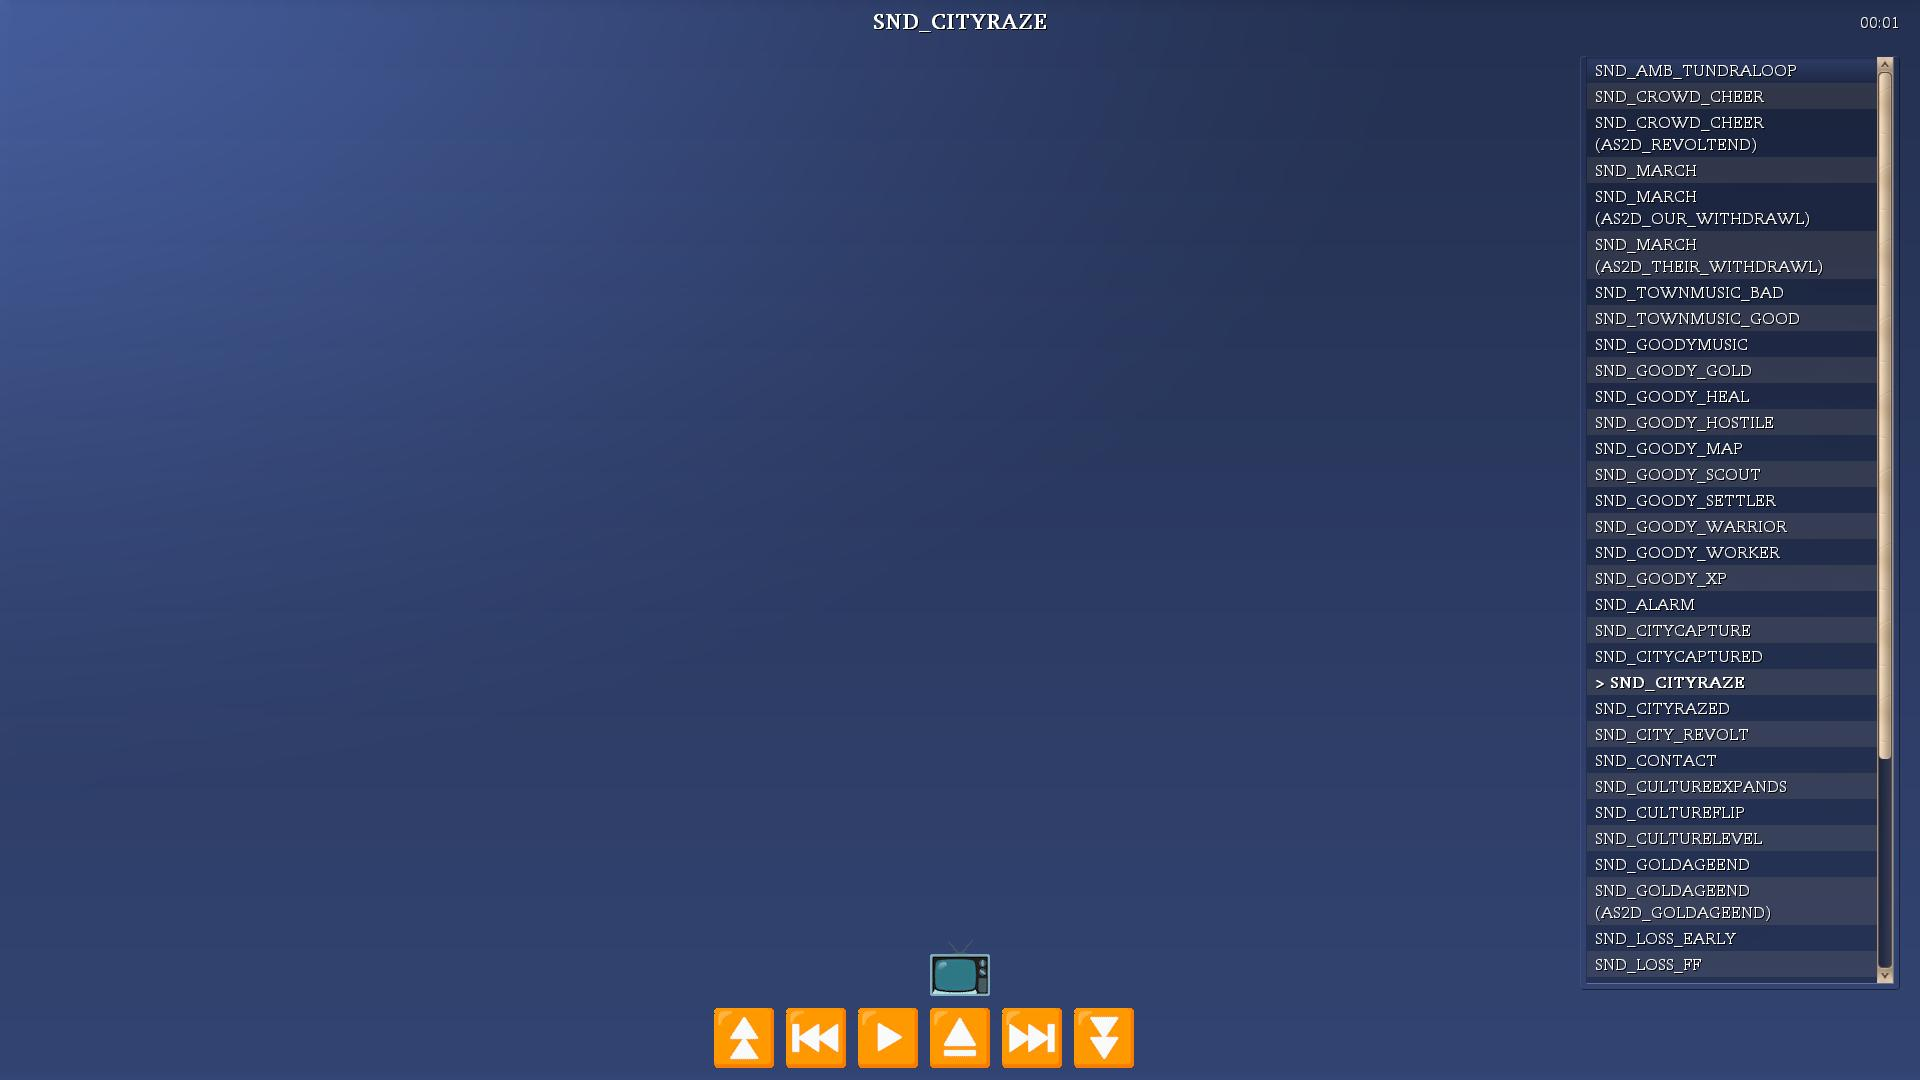
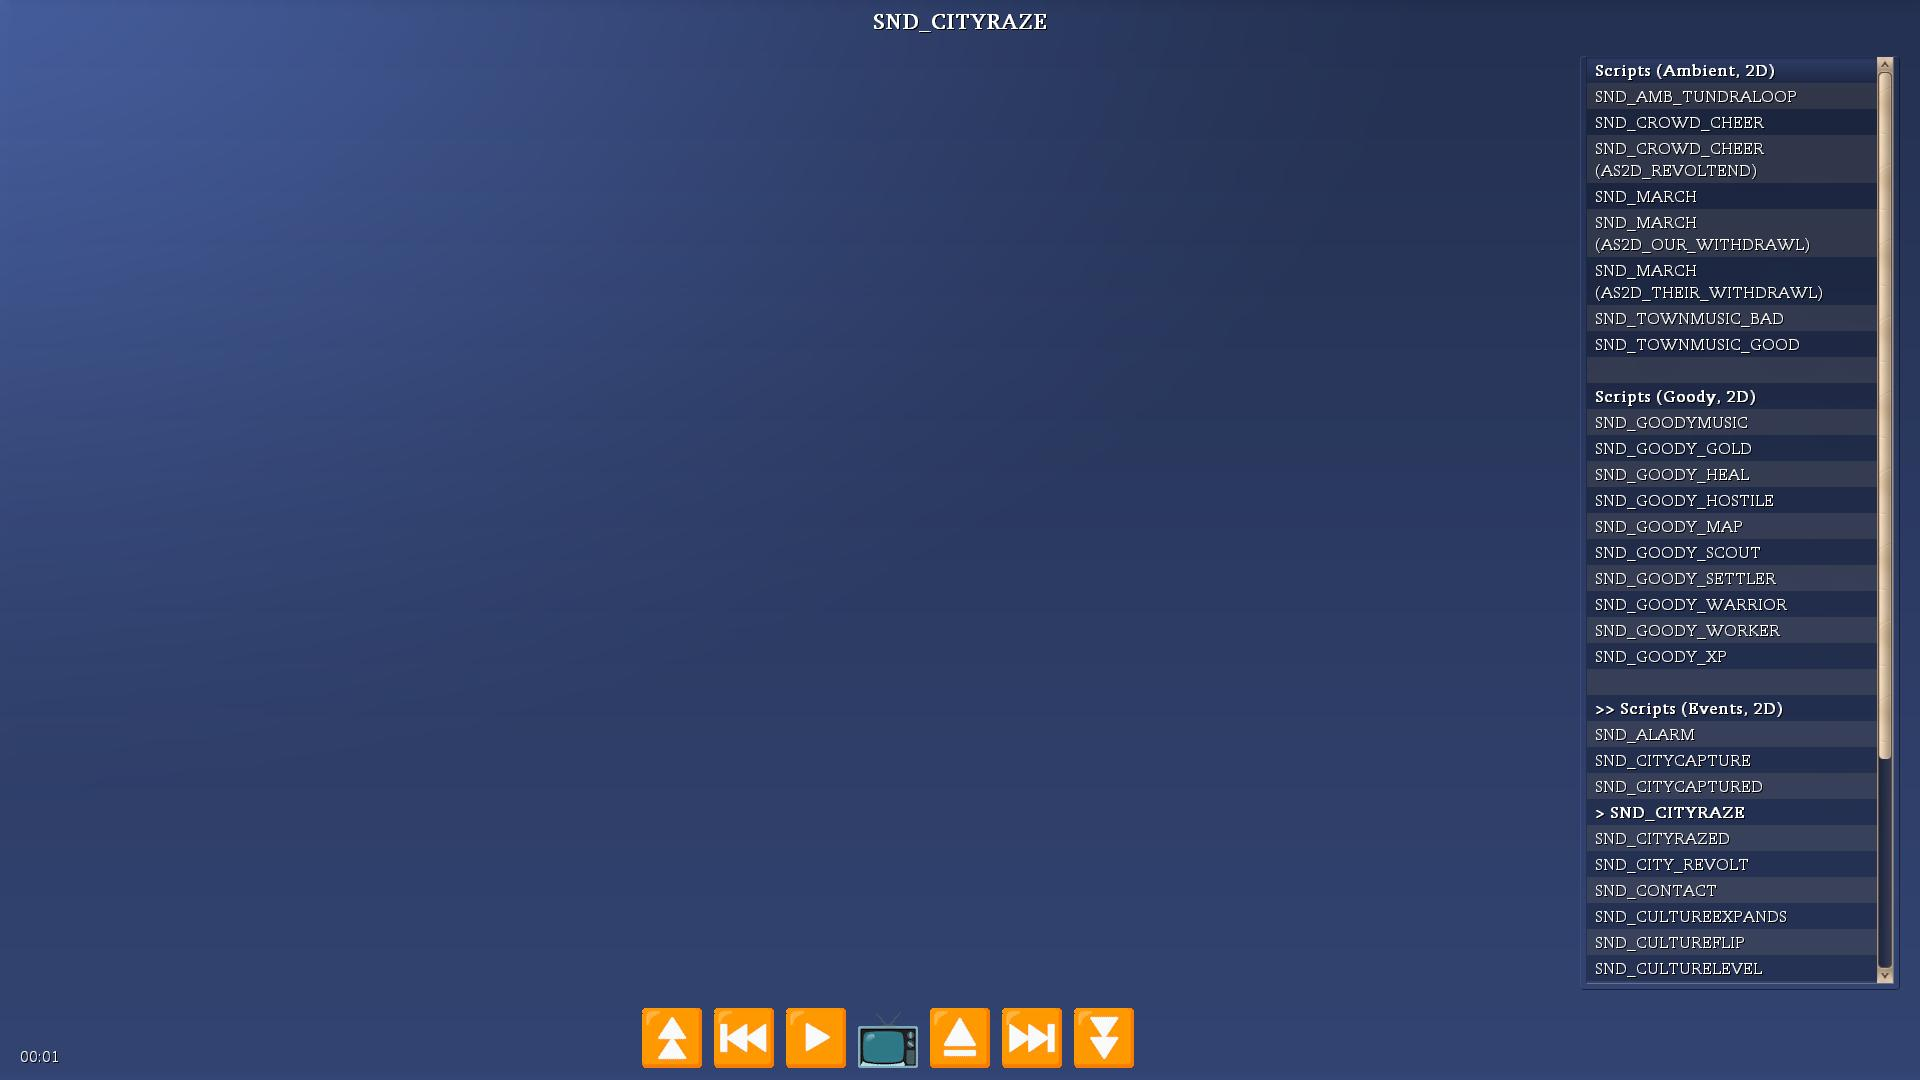
beautify groupings in sevopedia media player

diff --git a/Assets/Python/Contrib/Sevopedia/SevoPediaMediaPlayer.py b/Assets/Python/Contrib/Sevopedia/SevoPediaMediaPlayer.py
@@ -113,14 +113,14 @@ class SevoPediaMediaPlayer:
 	# <!-- custom: useful to replay files with variants such as _ORDER or _SELECT civilization sounds that play a different variant on replay (e.g. "Yes", "Agreed", "Right Away" (imaginary examples)), or for convenience so we don't exit the screen to replay. Added with the very nice help of GPT-5.2-Codex thanks. -->
 	def placeReplayButton(self, screen, iScreenW, iScreenH):
 		iSize, iGap, iExitX, iBaseY = self._getTransportLayout(iScreenW, iScreenH)
-		iReplayX = iExitX - iGap - iSize
+		iReplayX = iExitX - (iGap + iSize) * 2
 		screen.setImageButton(self.replayId, self.replayButtonPath, iReplayX, iBaseY, iSize, iSize, WidgetTypes.WIDGET_GENERAL, -1, -1)
 
 
 
 	def placePrevNextButtons(self, screen, iScreenW, iScreenH):
 		iSize, iGap, iExitX, iBaseY = self._getTransportLayout(iScreenW, iScreenH)
-		iReplayX = iExitX - iGap - iSize
+		iReplayX = iExitX - (iGap + iSize) * 2
 		iPrevX = iReplayX - iGap - iSize
 		iNextX = iExitX + iGap + iSize
 		screen.setImageButton(self.prevId, self.prevButtonPath, iPrevX, iBaseY, iSize, iSize, WidgetTypes.WIDGET_GENERAL, -1, -1)
@@ -130,7 +130,7 @@ class SevoPediaMediaPlayer:
 
 	def placeGroupSkipButtons(self, screen, iScreenW, iScreenH):
 		iSize, iGap, iExitX, iBaseY = self._getTransportLayout(iScreenW, iScreenH)
-		iReplayX = iExitX - iGap - iSize
+		iReplayX = iExitX - (iGap + iSize) * 2
 		iPrevX = iReplayX - iGap - iSize
 		iNextX = iExitX + iGap + iSize
 		iPrevGroupX = iPrevX - iGap - iSize
@@ -144,9 +144,8 @@ class SevoPediaMediaPlayer:
 		if not self.flipButtonPath:
 			return
 		iSize, iGap, iExitX, iBaseY = self._getTransportLayout(iScreenW, iScreenH)
-		iFlipX = iExitX
-		iFlipY = iBaseY - iGap - iSize
-		screen.setImageButton(self.flipId, self.flipButtonPath, iFlipX, iFlipY, iSize, iSize, WidgetTypes.WIDGET_GENERAL, -1, -1)
+		iFlipX = iExitX - iGap - iSize
+		screen.setImageButton(self.flipId, self.flipButtonPath, iFlipX, iBaseY, iSize, iSize, WidgetTypes.WIDGET_GENERAL, -1, -1)
 
 
 
@@ -159,7 +158,7 @@ class SevoPediaMediaPlayer:
 
 
 
-	def placeQueueList(self, screen, iScreenW, iScreenH, items, currentIndex):
+	def placeQueueList(self, screen, iScreenW, iScreenH, items, currentIndex, groupByIndex, groupLabels):
 		if (items is None) or (len(items) == 0):
 			return
 
@@ -193,14 +192,36 @@ class SevoPediaMediaPlayer:
 			iStart = currentIndex - (iMaxRows / 2)
 			if iStart < 0:
 				iStart = 0
-		iEnd = iStart + iMaxRows
-		if iEnd > len(items):
-			iEnd = len(items)
-		if (iEnd - iStart) < iMaxRows and iStart > 0:
-			iStart = max(0, iEnd - iMaxRows)
+		if iStart >= len(items):
+			iStart = max(0, len(items) - 1)
 
 		i = iStart
-		while i < iEnd:
+		iRows = 0
+		iLastGroup = -1
+		iCurrentGroup = -1
+		if (groupByIndex is not None) and (currentIndex >= 0) and (currentIndex < len(groupByIndex)):
+			iCurrentGroup = groupByIndex[currentIndex]
+
+		while i < len(items) and iRows < iMaxRows:
+			iGroup = -1
+			if (groupByIndex is not None) and (i < len(groupByIndex)):
+				iGroup = groupByIndex[i]
+
+			if iGroup != iLastGroup and (groupLabels is not None) and (iGroup >= 0) and (iGroup < len(groupLabels)) and iRows < iMaxRows:
+				if iLastGroup != -1 and iRows < iMaxRows:
+					screen.appendListBoxStringNoUpdate(self.queueListId, u"<font=3> </font>", WidgetTypes.WIDGET_GENERAL, -1, -1, CvUtil.FONT_LEFT_JUSTIFY)
+					iRows += 1
+				szHeader = groupLabels[iGroup]
+				if szHeader:
+					if iGroup == iCurrentGroup:
+						szHeader = u">> " + szHeader
+					szHeader = u"<font=3b>" + szHeader + u"</font>"
+					screen.appendListBoxStringNoUpdate(self.queueListId, szHeader, WidgetTypes.WIDGET_GENERAL, -1, -1, CvUtil.FONT_LEFT_JUSTIFY)
+					iRows += 1
+				iLastGroup = iGroup
+				if iRows >= iMaxRows:
+					break
+
 			szLabel = items[i]
 			if i == currentIndex:
 				szLabel = u"> " + szLabel
@@ -208,6 +229,7 @@ class SevoPediaMediaPlayer:
 			else:
 				szLabel = u"<font=3>" + szLabel + u"</font>"
 			screen.appendListBoxStringNoUpdate(self.queueListId, szLabel, WidgetTypes.WIDGET_GENERAL, -1, -1, CvUtil.FONT_LEFT_JUSTIFY)
+			iRows += 1
 			i += 1
 		screen.updateListBox(self.queueListId)
 
@@ -319,8 +341,8 @@ class SevoPediaMediaPlayer:
 
 
 	def placeTimerLabel(self, screen, iScreenW, iScreenH):
-		self.timerLabelX = iScreenW - 20
-		self.timerLabelY = 12
+		self.timerLabelX = 20
+		self.timerLabelY = iScreenH - 34
 		self._updateTimerLabel()
 
 
@@ -358,7 +380,7 @@ class SevoPediaMediaPlayer:
 		if self.screen is None:
 			return
 		szText = self._formatElapsed(self.timerSeconds)
-		self.screen.setLabel(self.timerLabelId, "Background", u"<font=3>" + szText + u"</font>", CvUtil.FONT_RIGHT_JUSTIFY, self.timerLabelX, self.timerLabelY, -0.1, FontTypes.SMALL_FONT, WidgetTypes.WIDGET_GENERAL, -1, -1)
+		self.screen.setLabel(self.timerLabelId, "Background", u"<font=3>" + szText + u"</font>", CvUtil.FONT_LEFT_JUSTIFY, self.timerLabelX, self.timerLabelY, -0.1, FontTypes.SMALL_FONT, WidgetTypes.WIDGET_GENERAL, -1, -1)
 
 
 

diff --git a/Assets/Python/Contrib/Sevopedia/SevoPediaMovie.py b/Assets/Python/Contrib/Sevopedia/SevoPediaMovie.py
@@ -36,6 +36,7 @@ class SevoPediaMovie:
 		self.SAS_playableMovieLabels = None
 		self.SAS_playableMovieIndex = -1
 		self.SAS_playableMovieGroupByIndex = None
+		self.SAS_playableMovieGroupLabels = None
 		self.SAS_movieGroupFirstIndex = None
 		self.SAS_movieGroupLastIndex = None
 
@@ -176,7 +177,7 @@ class SevoPediaMovie:
 		self.mediaPlayer.setFlipCallback(self.switchToMusic)
 
 		self.SAS_setupPlayableMovies(iMovieType, iMovieId)
-		self.mediaPlayer.placeQueueList(screen, iScreenW, iScreenH, self.SAS_playableMovieLabels, self.SAS_playableMovieIndex)
+		self.mediaPlayer.placeQueueList(screen, iScreenW, iScreenH, self.SAS_playableMovieLabels, self.SAS_playableMovieIndex, self.SAS_playableMovieGroupByIndex, self.SAS_playableMovieGroupLabels)
 
 
 
@@ -278,6 +279,7 @@ class SevoPediaMovie:
 			self.SAS_playableMovies,
 			self.SAS_playableMovieLabels,
 			self.SAS_playableMovieGroupByIndex,
+			self.SAS_playableMovieGroupLabels,
 			self.SAS_movieGroupFirstIndex,
 			self.SAS_movieGroupLastIndex
 		) = self.SAS_buildPlayableMoviesAndLabels()
@@ -294,6 +296,7 @@ class SevoPediaMovie:
 		r = []
 		labels = []
 		groupByIndex = []
+		groupLabels = []
 		groupFirst = []
 		groupLast = []
 		listEntries = self.top.getMovieList()
@@ -302,6 +305,9 @@ class SevoPediaMovie:
 			if iPacked == -1:
 				if szName and szName.strip():
 					iGroup += 1
+					while len(groupLabels) <= iGroup:
+						groupLabels.append("")
+					groupLabels[iGroup] = szName
 				continue
 			iType, iId = self.top.SAS_unpackMovieKey(iPacked)
 			if self.hasMovie(iType, iId):
@@ -310,6 +316,8 @@ class SevoPediaMovie:
 				if iGroup < 0:
 					iGroup = 0
 				groupByIndex.append(iGroup)
+				while len(groupLabels) <= iGroup:
+					groupLabels.append("")
 				while len(groupFirst) <= iGroup:
 					groupFirst.append(None)
 					groupLast.append(None)
@@ -318,7 +326,7 @@ class SevoPediaMovie:
 					groupLast[iGroup] = len(r) - 1
 				else:
 					groupLast[iGroup] = len(r) - 1
-		return (r, labels, groupByIndex, groupFirst, groupLast)
+		return (r, labels, groupByIndex, groupLabels, groupFirst, groupLast)
 
 
 
@@ -338,7 +346,7 @@ class SevoPediaMovie:
 
 
 	def SAS_getFirstPlayableMovie(self):
-		playable, labels, groupByIndex, groupFirst, groupLast = self.SAS_buildPlayableMoviesAndLabels()
+		playable, labels, groupByIndex, groupLabels, groupFirst, groupLast = self.SAS_buildPlayableMoviesAndLabels()
 		if not playable:
 			return -1
 		return playable[0]

diff --git a/Assets/Python/Contrib/Sevopedia/SevoPediaMusic.py b/Assets/Python/Contrib/Sevopedia/SevoPediaMusic.py
@@ -31,6 +31,7 @@ class SevoPediaMusic:
 		self.SAS_playableMusicLabels = None
 		self.SAS_playableMusicIndex = -1
 		self.SAS_playableMusicGroupByIndex = None
+		self.SAS_playableMusicGroupLabels = None
 		self.SAS_musicGroupFirstIndex = None
 		self.SAS_musicGroupLastIndex = None
 
@@ -259,7 +260,7 @@ class SevoPediaMusic:
 		self.mediaPlayer.setFlipCallback(self.switchToMovies)
 		self.SAS_lastMusicSound = (szSoundScript, iSoundId, self.top.SAS_isMusicSound3D(iMusic))
 		self.SAS_setupPlayableMusic(iMusic)
-		self.mediaPlayer.placeQueueList(screen, iScreenW, iScreenH, self.SAS_playableMusicLabels, self.SAS_playableMusicIndex)
+		self.mediaPlayer.placeQueueList(screen, iScreenW, iScreenH, self.SAS_playableMusicLabels, self.SAS_playableMusicIndex, self.SAS_playableMusicGroupByIndex, self.SAS_playableMusicGroupLabels)
 
 
 
@@ -352,6 +353,7 @@ class SevoPediaMusic:
 			self.SAS_playableMusic,
 			self.SAS_playableMusicLabels,
 			self.SAS_playableMusicGroupByIndex,
+			self.SAS_playableMusicGroupLabels,
 			self.SAS_musicGroupFirstIndex,
 			self.SAS_musicGroupLastIndex
 		) = self.SAS_buildPlayableMusicAndLabels()
@@ -367,6 +369,7 @@ class SevoPediaMusic:
 		r = []
 		labels = []
 		groupByIndex = []
+		groupLabels = []
 		groupFirst = []
 		groupLast = []
 		listEntries = self.top.getMusicList()
@@ -375,6 +378,9 @@ class SevoPediaMusic:
 			if iPacked == -1:
 				if szName and szName.strip():
 					iGroup += 1
+					while len(groupLabels) <= iGroup:
+						groupLabels.append("")
+					groupLabels[iGroup] = szName
 				continue
 			if self.hasMusic(iPacked):
 				r.append(iPacked)
@@ -382,6 +388,8 @@ class SevoPediaMusic:
 				if iGroup < 0:
 					iGroup = 0
 				groupByIndex.append(iGroup)
+				while len(groupLabels) <= iGroup:
+					groupLabels.append("")
 				while len(groupFirst) <= iGroup:
 					groupFirst.append(None)
 					groupLast.append(None)
@@ -390,7 +398,7 @@ class SevoPediaMusic:
 					groupLast[iGroup] = len(r) - 1
 				else:
 					groupLast[iGroup] = len(r) - 1
-		return (r, labels, groupByIndex, groupFirst, groupLast)
+		return (r, labels, groupByIndex, groupLabels, groupFirst, groupLast)
 
 
 
@@ -406,7 +414,7 @@ class SevoPediaMusic:
 
 
 	def SAS_getFirstPlayableMusic(self):
-		playable, labels, groupByIndex, groupFirst, groupLast = self.SAS_buildPlayableMusicAndLabels()
+		playable, labels, groupByIndex, groupLabels, groupFirst, groupLast = self.SAS_buildPlayableMusicAndLabels()
 		if not playable:
 			return -1
 		return playable[0]